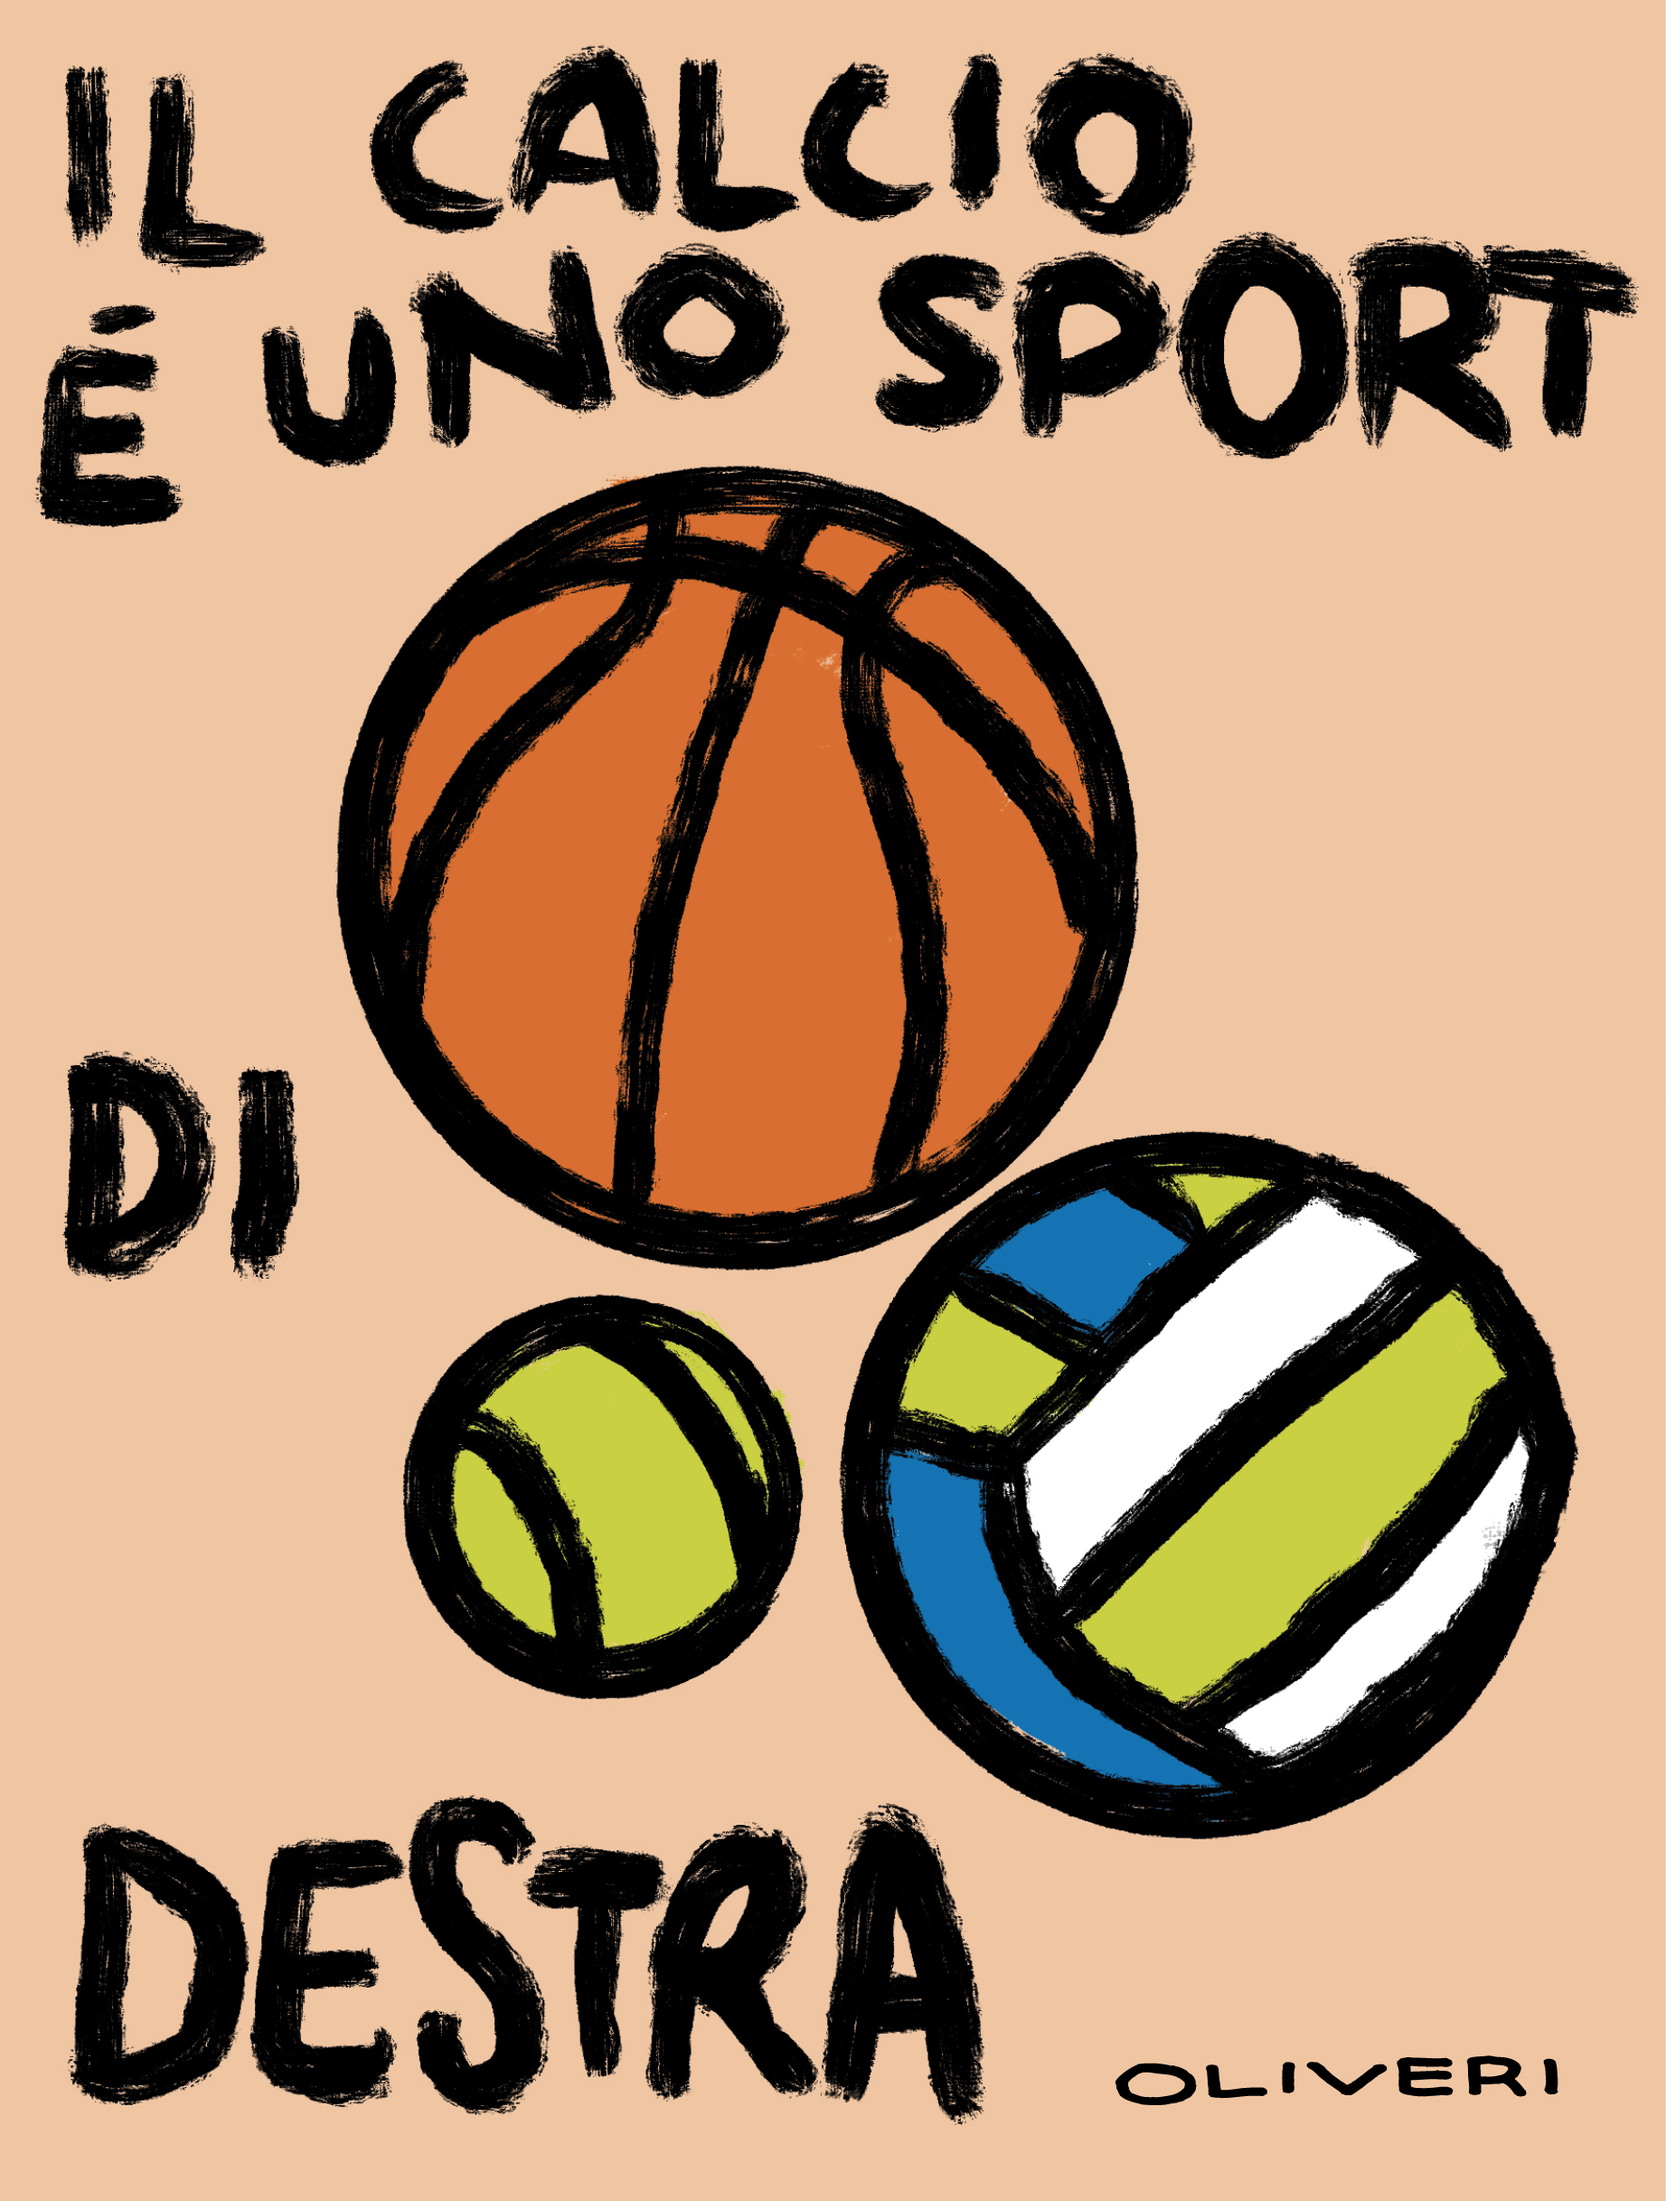
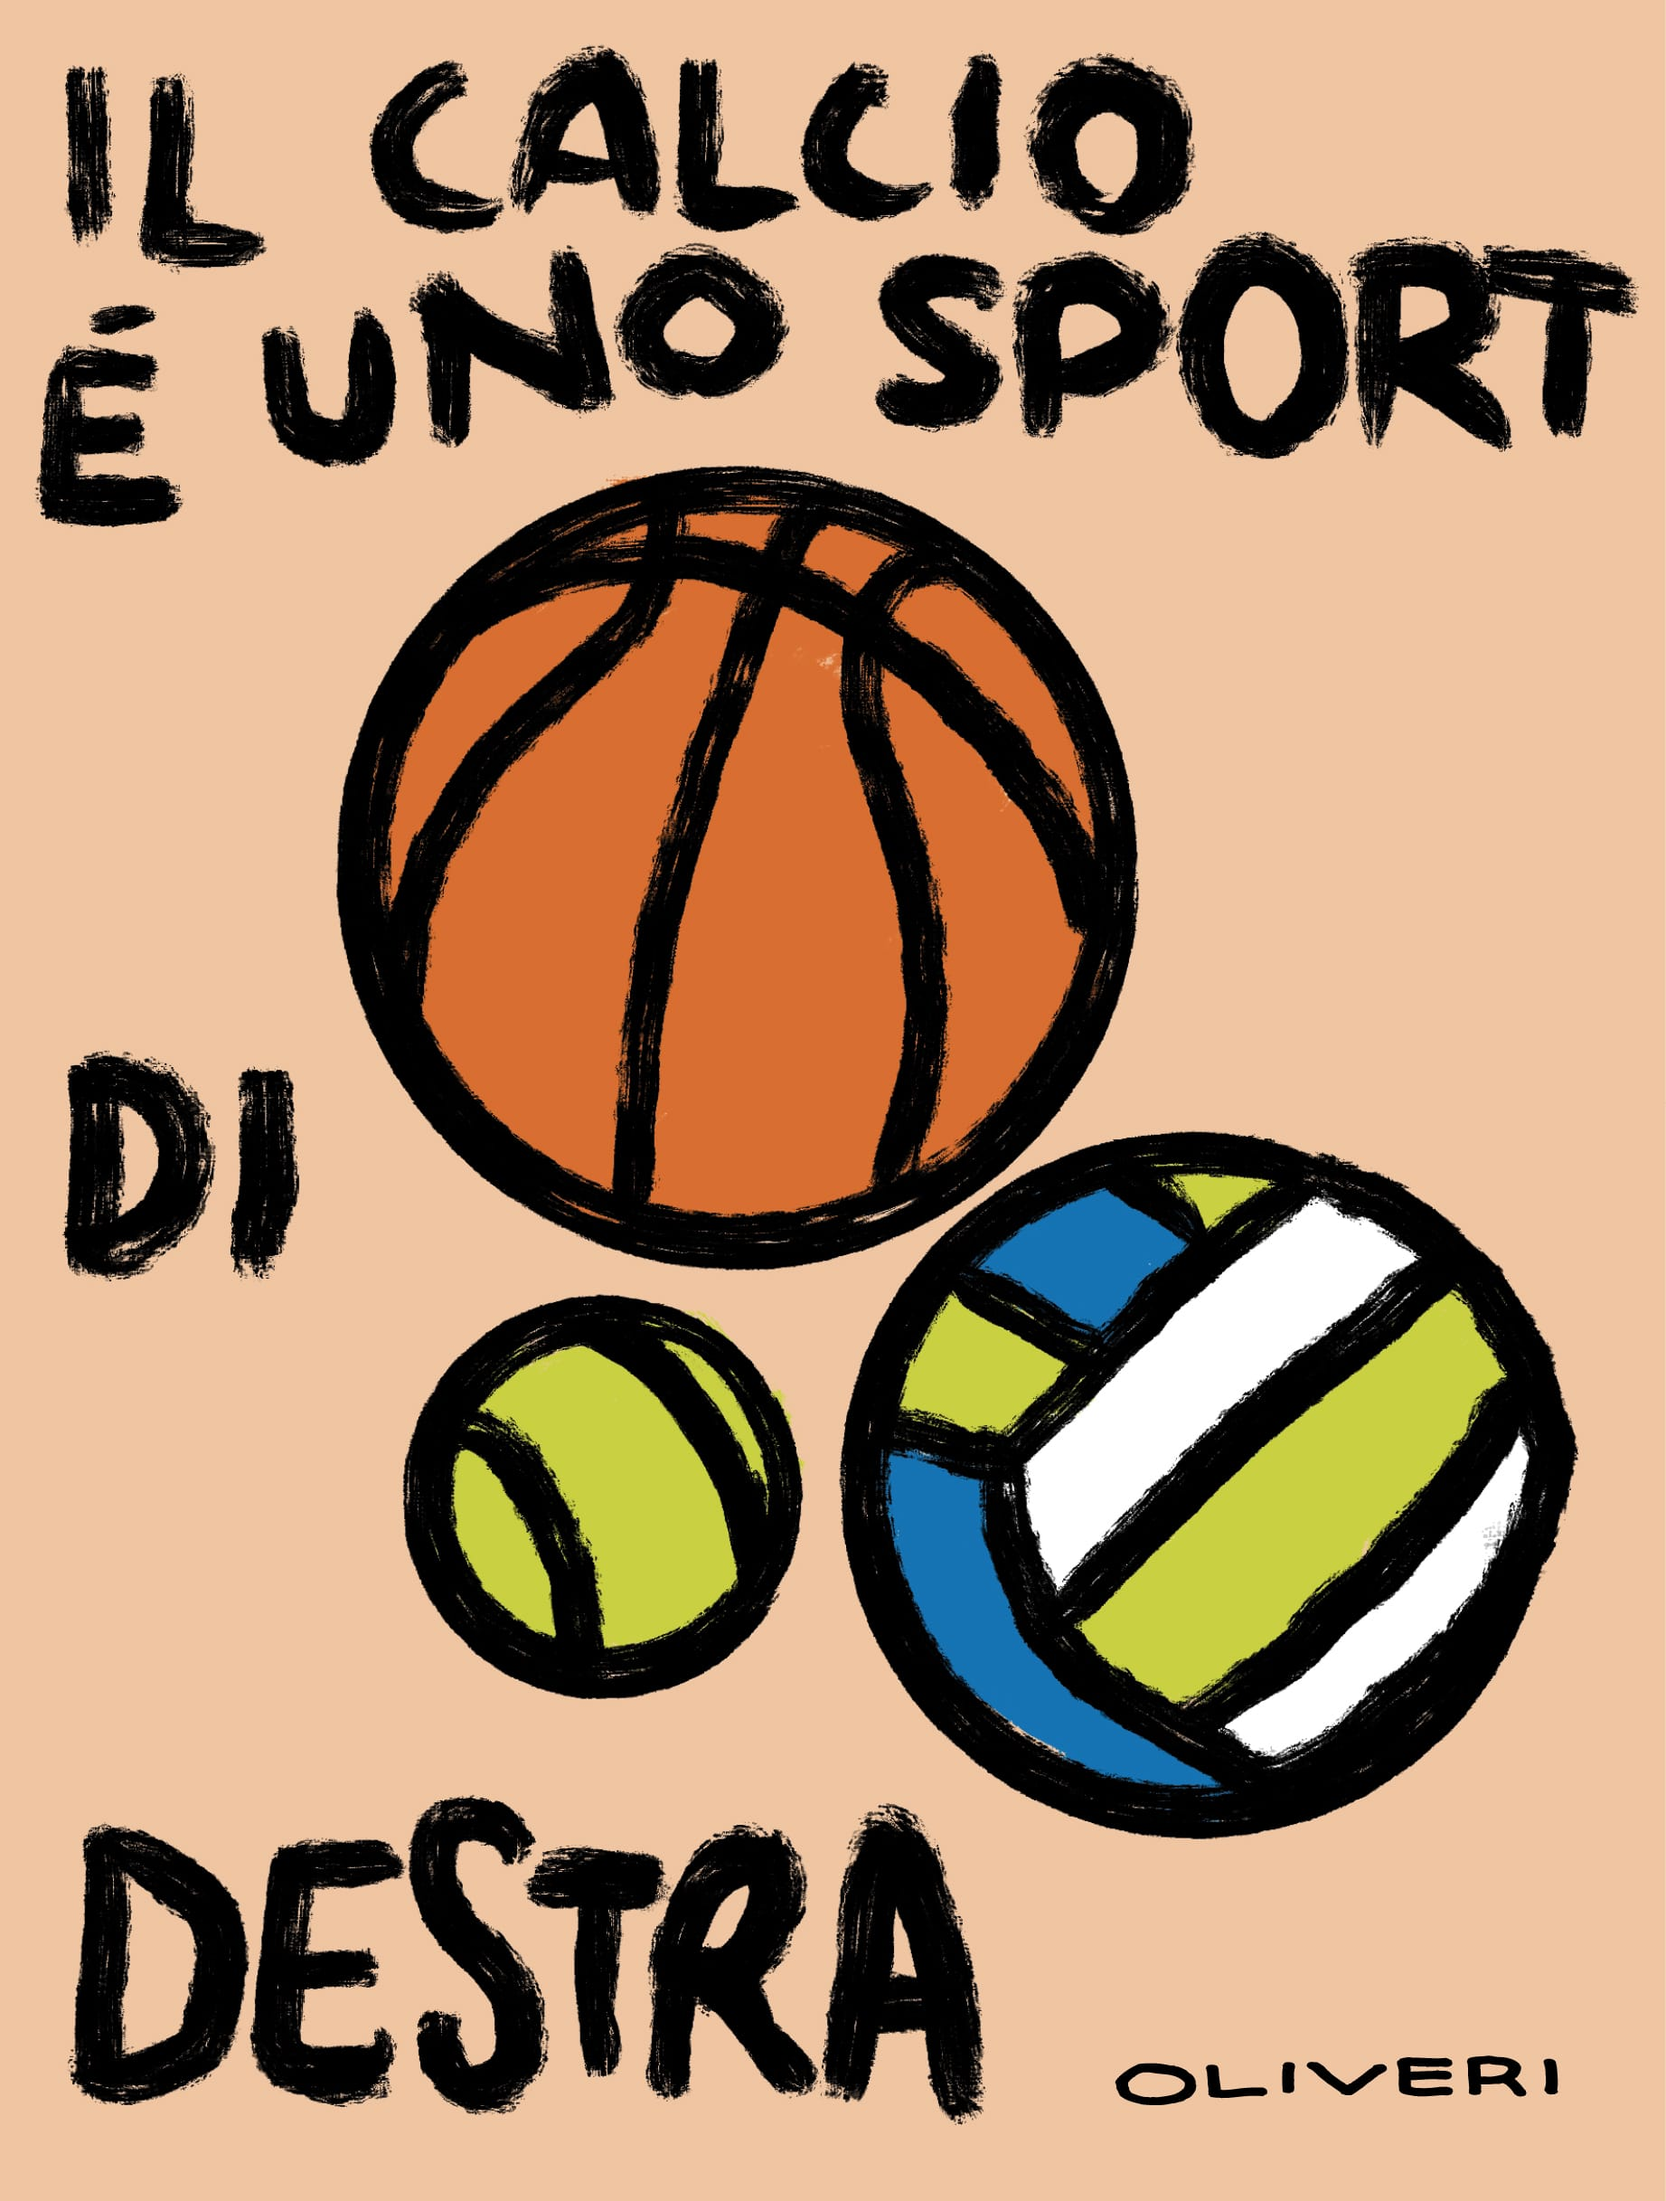
03 mostra
nuova mostra visual fragments

diff --git a/scripts.js b/scripts.js
@@ -51,6 +51,25 @@ document.addEventListener("DOMContentLoaded", () => {
           { img: "img/toylette/Toylette-mostra-leccesso-13.jpg", titolo: "Godzilla", artista: "Giuseppe Oliveri", data: "2025" },
           { img: "img/toylette/Toylette-mostra-leccesso-03.jpg", titolo: "Free Palestine", artista: "Giuseppe Oliveri", data: "2025" },
         ]
+      },
+
+      "mostra-3": {
+        titolo: "flaconedivetro VISUAL FRAGMENTS",
+        descrizione: "How many pieces it takes to create a story is never known, how many rags, how much silk, how much iron or copper. What is known is that the final result always remains faithful to the pulsing sensation, to the urge to unfold, to the warmth of being understood. How many layers it takes to cover a story and transform it is never known, how many colors, how much white, how many blurs or sharp edges. What is known is that layering is always perfect, because it is impossible to hide the steps, the leaps, and the flips taken to arrive at the cover.",
+        opere: [
+          { img: "img/visual-fragments/vf-mostra-leccesso-01.jpg", titolo: "Giorni Felici", artista: "Benedetta Giugni", data: "2024" },
+          { img: "img/visual-fragments/vf-mostra-leccesso-02.jpg", titolo: "Lonely People", artista: "Benedetta Giugni", data: "2024" },
+          { img: "img/visual-fragments/vf-mostra-leccesso-03.jpg", titolo: "La Revoluciòn", artista: "Benedetta Giugni", data: "2025" },
+          { img: "img/visual-fragments/vf-mostra-leccesso-04.jpg", titolo: "Il Pilota", artista: "Benedetta Giugni", data: "2026" },
+          { img: "img/visual-fragments/vf-mostra-leccesso-05.jpg", titolo: "Lonely People video", artista: "Benedetta Giugni", data: "2024" },
+          { img: "img/visual-fragments/vf-mostra-leccesso-06.jpg", titolo: "Techno Bucolica Video", artista: "Benedetta Giugni", data: "2024" },
+          { img: "img/visual-fragments/vf-mostra-leccesso-07.jpg", titolo: "Briciole", artista: "Benedetta Giugni", data: "2025" },
+          { img: "img/visual-fragments/vf-mostra-leccesso-08.jpg", titolo: "Marì", artista: "Benedetta Giugni", data: "2023" },
+          { img: "img/visual-fragments/vf-mostra-leccesso-09.jpg", titolo: "Techno Bucolica Video", artista: "Benedetta Giugni", data: "2024" },
+          { img: "img/visual-fragments/vf-mostra-leccesso-10.jpg", titolo: "Pugni", artista: "Benedetta Giugni", data: "2026" },
+          { img: "img/visual-fragments/vf-mostra-leccesso-11.jpg", titolo: "Techno Bucolica", artista: "Benedetta Giugni", data: "2024" },
+          { img: "img/visual-fragments/vf-mostra-leccesso-12.jpg", titolo: "Acqua", artista: "Benedetta Giugni", data: "2024" },
+        ]
       }
 
       

diff --git a/index.html b/index.html
@@ -61,6 +61,20 @@
       <button class="art-button">see more</button>
     </div>
     -->
+
+    <div class="art-item" data-show="mostra-3">
+      <div class="art-image-wrapper">
+        <img src="img/visual-fragments/cover.jpg" alt="Visual Fragments Cover" class="default-img">
+        <img src="img/visual-fragments/hover.jpg" alt="Visual Fragments main piece" class="hover-img">
+      </div>
+      <div class="caption-link">
+        <h3>
+          flaconedivetro Visual Fragments <br>
+          April 18 - <span class="blink">Ongoing</span> <br> 2026
+        </h3>
+      </div>
+      <button class="art-button">see more</button>
+    </div>
     
     <div class="art-item" data-show="mostra-2">
       <div class="art-image-wrapper">
@@ -70,7 +84,7 @@
       <div class="caption-link">
         <h3>
           Toylette <br>
-          1 Settembre - <span class="blink">Ongoing</span>
+          September 1 - April 17 <br> 2025 - 2026
         </h3>
       </div>
       <button class="art-button">see more</button>
@@ -85,11 +99,16 @@
       <div class="caption-link">
         <h3>
           Larsura Opening <br>
-          13 Aprile - 31 Agosto <br> 2025
+          April 13 - August 31 <br> 2025
         </h3>
       </div>
       <button class="art-button">see more</button>
     </div>
+
+    <!-- copia/duplica altri blocchi come questo -->
+  </section>
+
+  <section class="gallery">
 
     <div class="art-item">
       <div class="art-image-wrapper">
@@ -98,8 +117,13 @@
       </div>
     </div>
 
+   <div class="art-item"></div>
+
+    <div class="art-item"></div>
+
     <!-- copia/duplica altri blocchi come questo -->
   </section>
+
 
   
 
